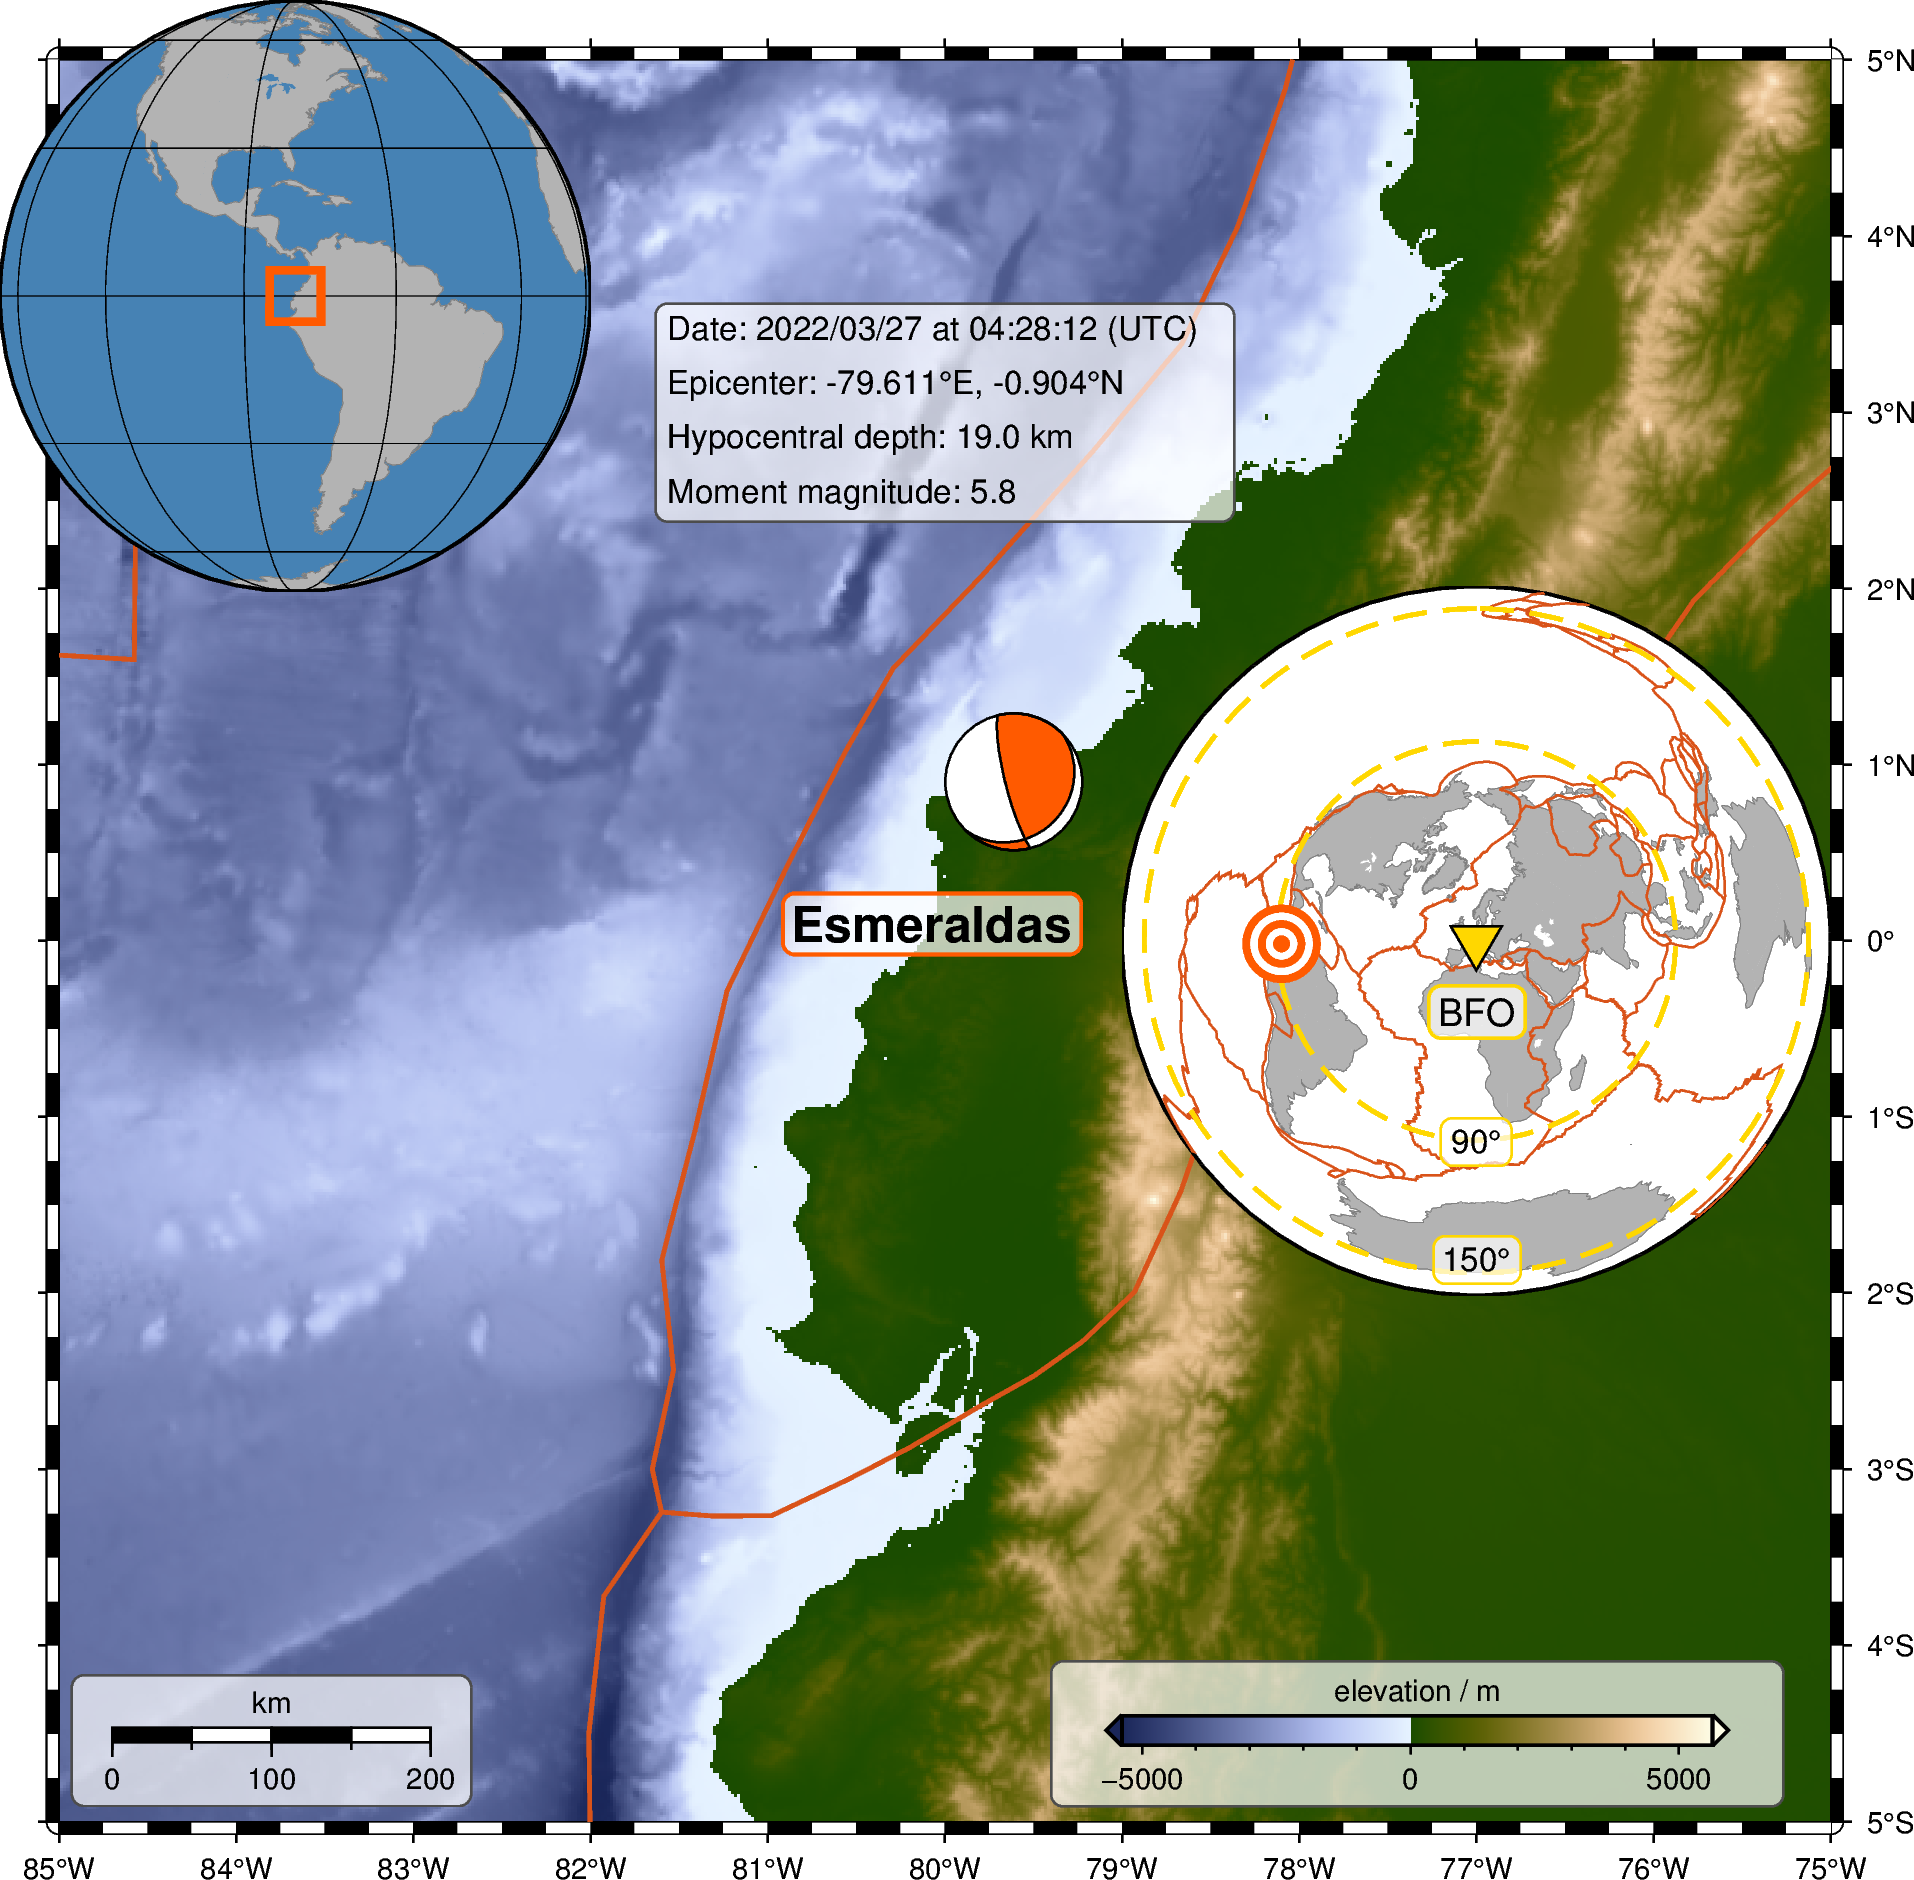
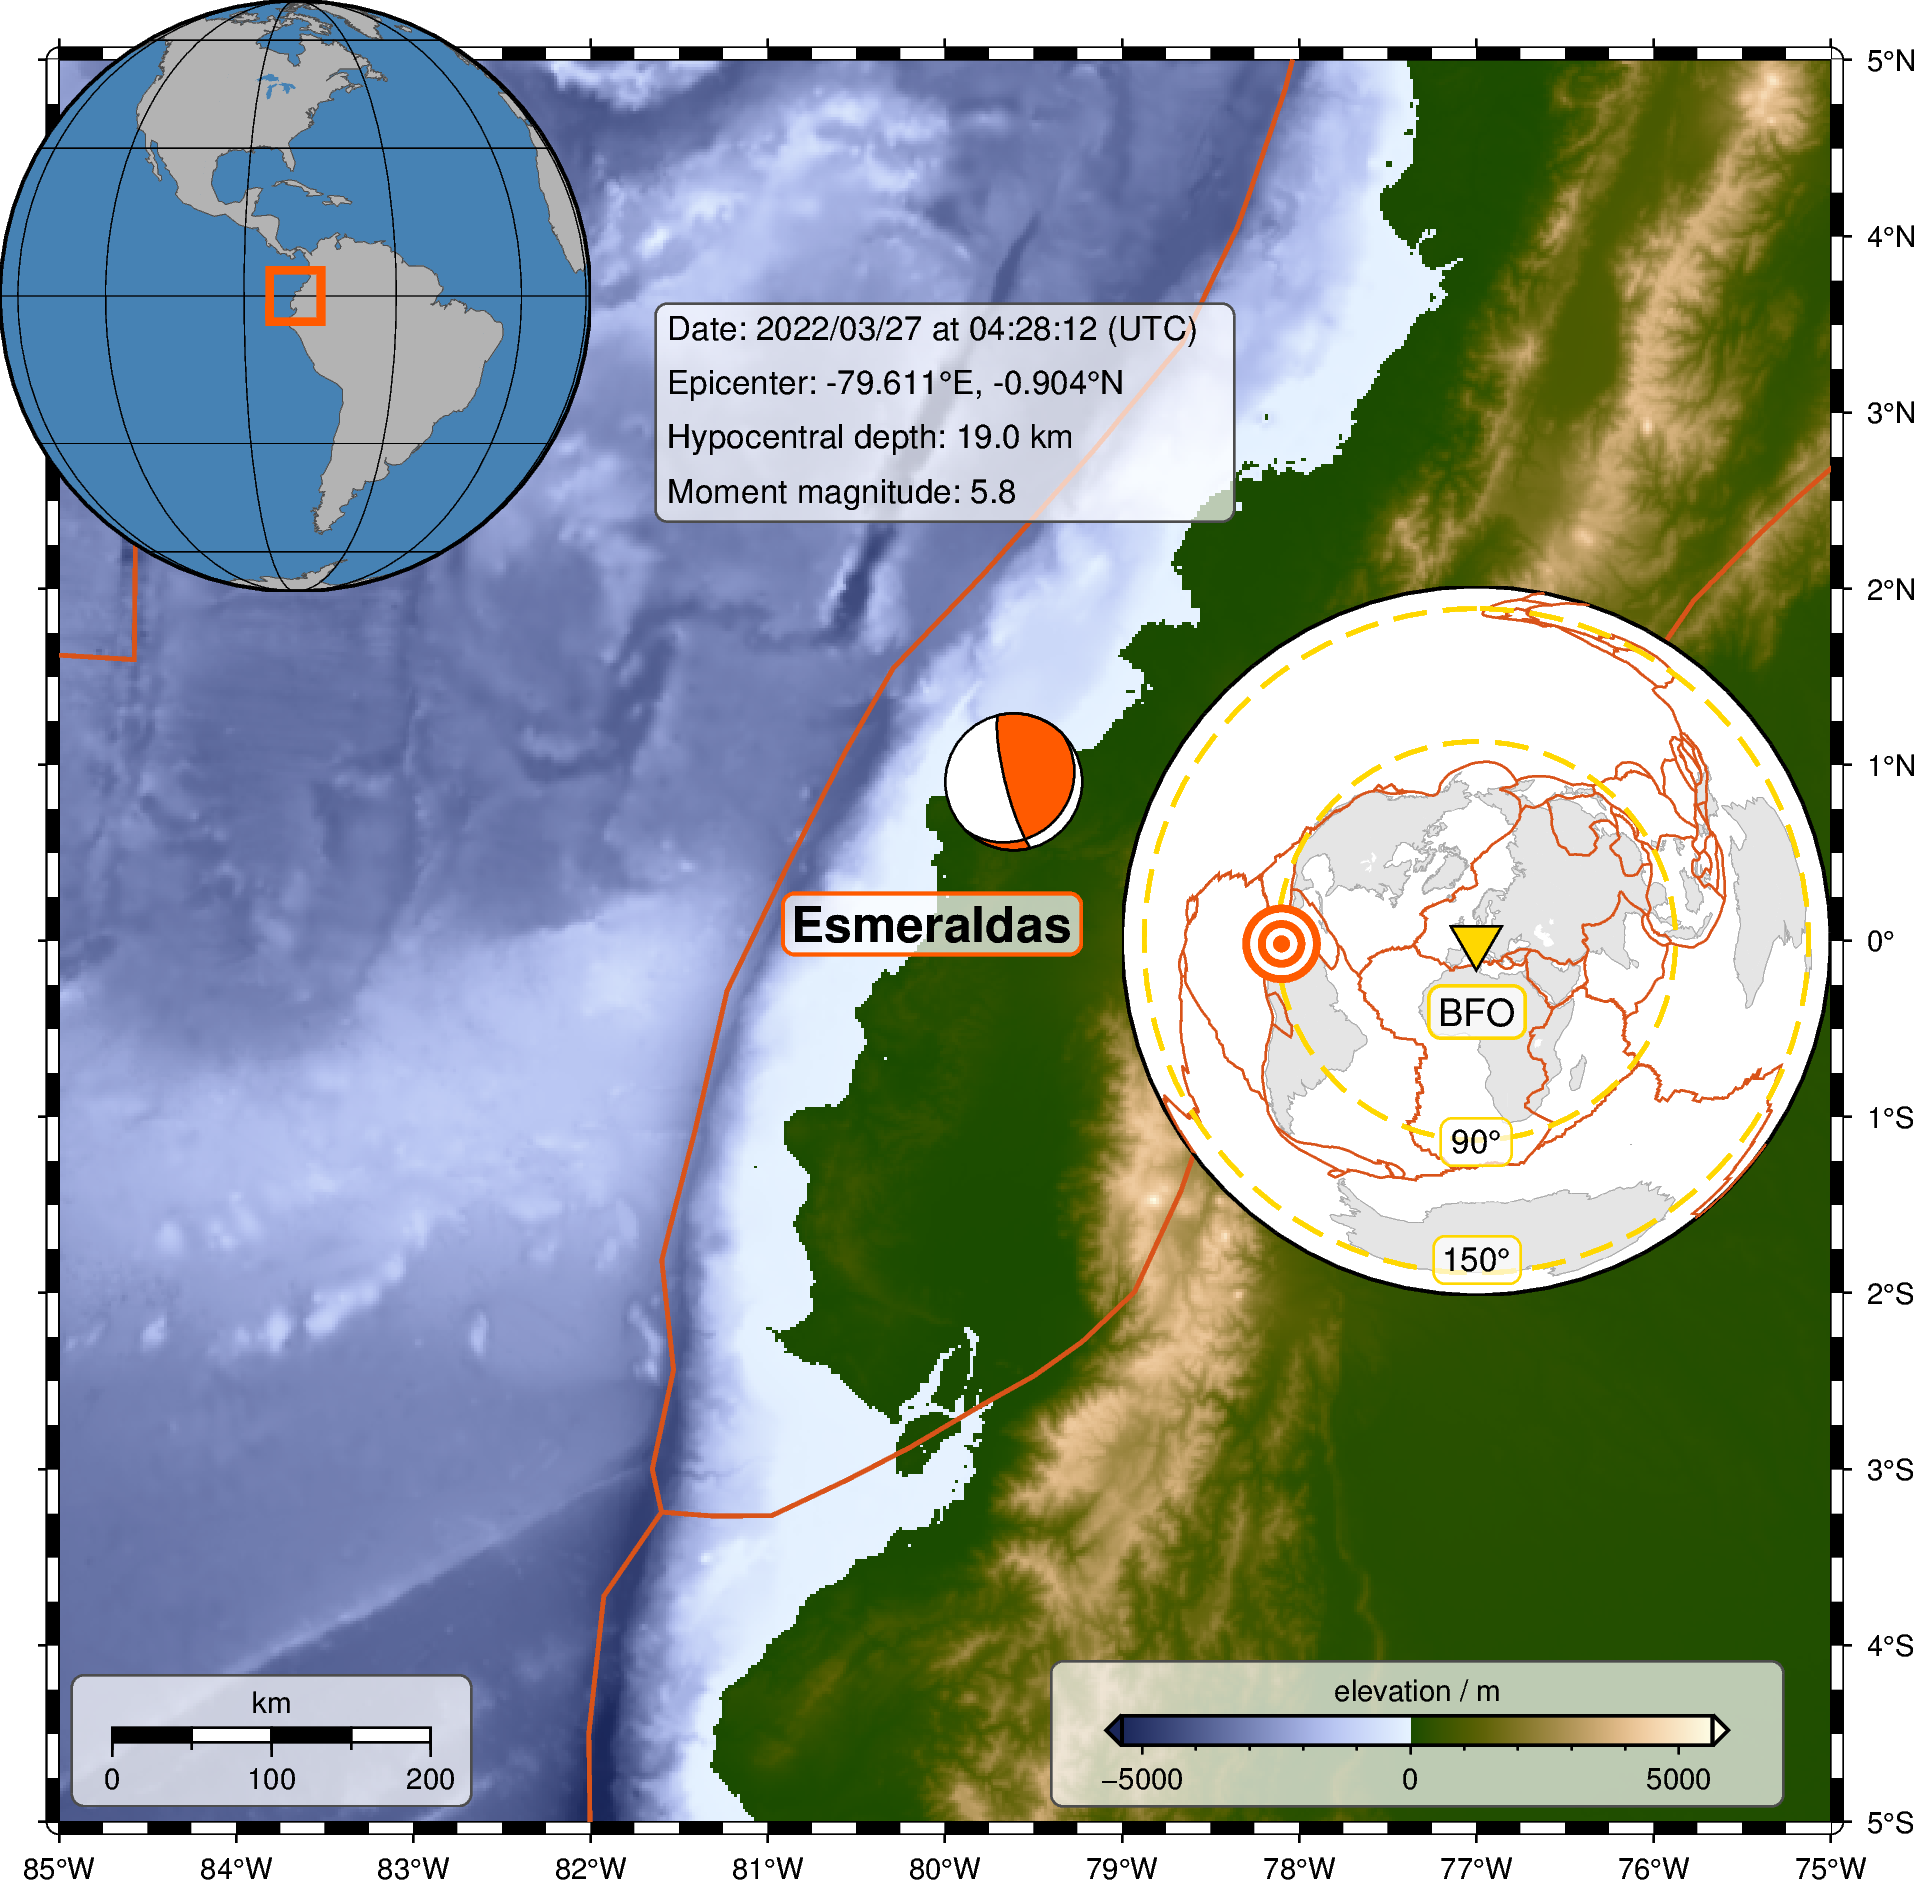
Adjust colors for land and shorelines

Changed region(s): [[0.6473, 0.4011, 0.9556, 0.6787], [0.1233, 0.0, 0.185, 0.0309], [0.6782, 0.617, 0.709, 0.6479]]

diff --git a/004_earthquakes_eruptions/03_esmeraldas/esmeraldas_earthquake.py b/004_earthquakes_eruptions/03_esmeraldas/esmeraldas_earthquake.py
@@ -50,8 +50,10 @@ file_plate_in = "plate_boundaries_Bird_2003.txt"
 # -----------------------------------------------------------------------------
 # Colors
 color_water = "steelblue"
-color_land = "gray70"
-color_shorelines = "gray50"
+color_land_ortho = "gray70"
+color_shorelines_ortho = "gray30"
+color_land = "gray90"
+color_shorelines = "darkgray"
 color_sta = "gold"
 color_plate = "216.750/82.875/24.990"  # -> darkorange
 color_highlight = "255/90/0"  # -> orange
@@ -169,10 +171,7 @@ gmt.config(MAP_SCALE_HEIGHT="7p")
 basemap_scale = f"JLB+jLB+w200+c{(lon_max + lon_min) / 2}/{(lat_max + lat_min) / 2}" + \
                 "+f+lkm+at+o0.45c/0.55c"
 
-fig.basemap(
-    map_scale=basemap_scale,
-    box=box_standard,  # Box around map scale
-)
+fig.basemap(map_scale=basemap_scale, box=box_standard)
 
 # -----------------------------------------------------------------------------
 # Inset map of study region
@@ -191,8 +190,8 @@ with fig.inset(position=pos_study_inset):
         projection=project_study,
         resolution="c",
         area_thresh=50000,
-        shorelines=f"1/0.01p,{color_shorelines}",
-        land=color_land,
+        shorelines=f"1/0.01p,{color_shorelines_ortho}",
+        land=color_land_ortho,
         water=color_water,
         frame="g",
     )

diff --git a/004_earthquakes_eruptions/06_japan/japan_earthquake_BFO.py b/004_earthquakes_eruptions/06_japan/japan_earthquake_BFO.py
@@ -32,9 +32,12 @@ col_sta = "255/215/0"
 col_eq = "255/90/0"
 col_pd = "216.750/82.875/24.990"
 col_water = "steelblue"
-col_land = "gray70"
-col_shorelines = "gray30"
-col_phase = "magenta"
+col_land_ortho = "gray70"
+col_shorelines_ortho = "gray30"
+col_land = "gray90"
+col_shorelines = "darkgray"
+
+# Must be the same as in the taup_path function!
 dict_col_phase = {
     "P": "navyblue",
     "S": "blue",
@@ -287,8 +290,8 @@ with fig.inset(position="jTL+o0.1c+w3c"):
         projection=f"G{(lon_min + lon_max) / 2}/{(lat_min + lat_max) / 2}/?",
         area_thresh="50000",
         resolution="c",
-        shorelines=f"1/0.01p,{col_shorelines}",
-        land=col_land,
+        shorelines=f"1/0.01p,{col_shorelines_ortho}",
+        land=col_land_ortho,
         water=col_water,
         frame="g",
     )

diff --git a/004_earthquakes_eruptions/07_taiwan/taiwan_earthquake_BFO.py b/004_earthquakes_eruptions/07_taiwan/taiwan_earthquake_BFO.py
@@ -32,9 +32,12 @@ col_sta = "255/215/0"
 col_eq = "255/90/0"
 col_pd = "216.750/82.875/24.990"
 col_water = "steelblue"
-col_land = "gray70"
-col_shorelines = "gray30"
-col_phase = "magenta"
+col_land_ortho = "gray70"
+col_shorelines_ortho = "gray30"
+col_land = "gray90"
+col_shorelines = "darkgray"
+
+# Must be the same as in the taup_path function!
 dict_col_phase = {
     "P": "navyblue",
     "S": "blue",
@@ -287,8 +290,8 @@ with fig.inset(position="jTL+o0.1c+w3c"):
         projection=f"G{(lon_min + lon_max) / 2}/{(lat_min + lat_max) / 2}/?",
         area_thresh="50000",
         resolution="c",
-        shorelines=f"1/0.01p,{col_shorelines}",
-        land=col_land,
+        shorelines=f"1/0.01p,{col_shorelines_ortho}",
+        land=col_land_ortho,
         water=col_water,
         frame="g",
     )
